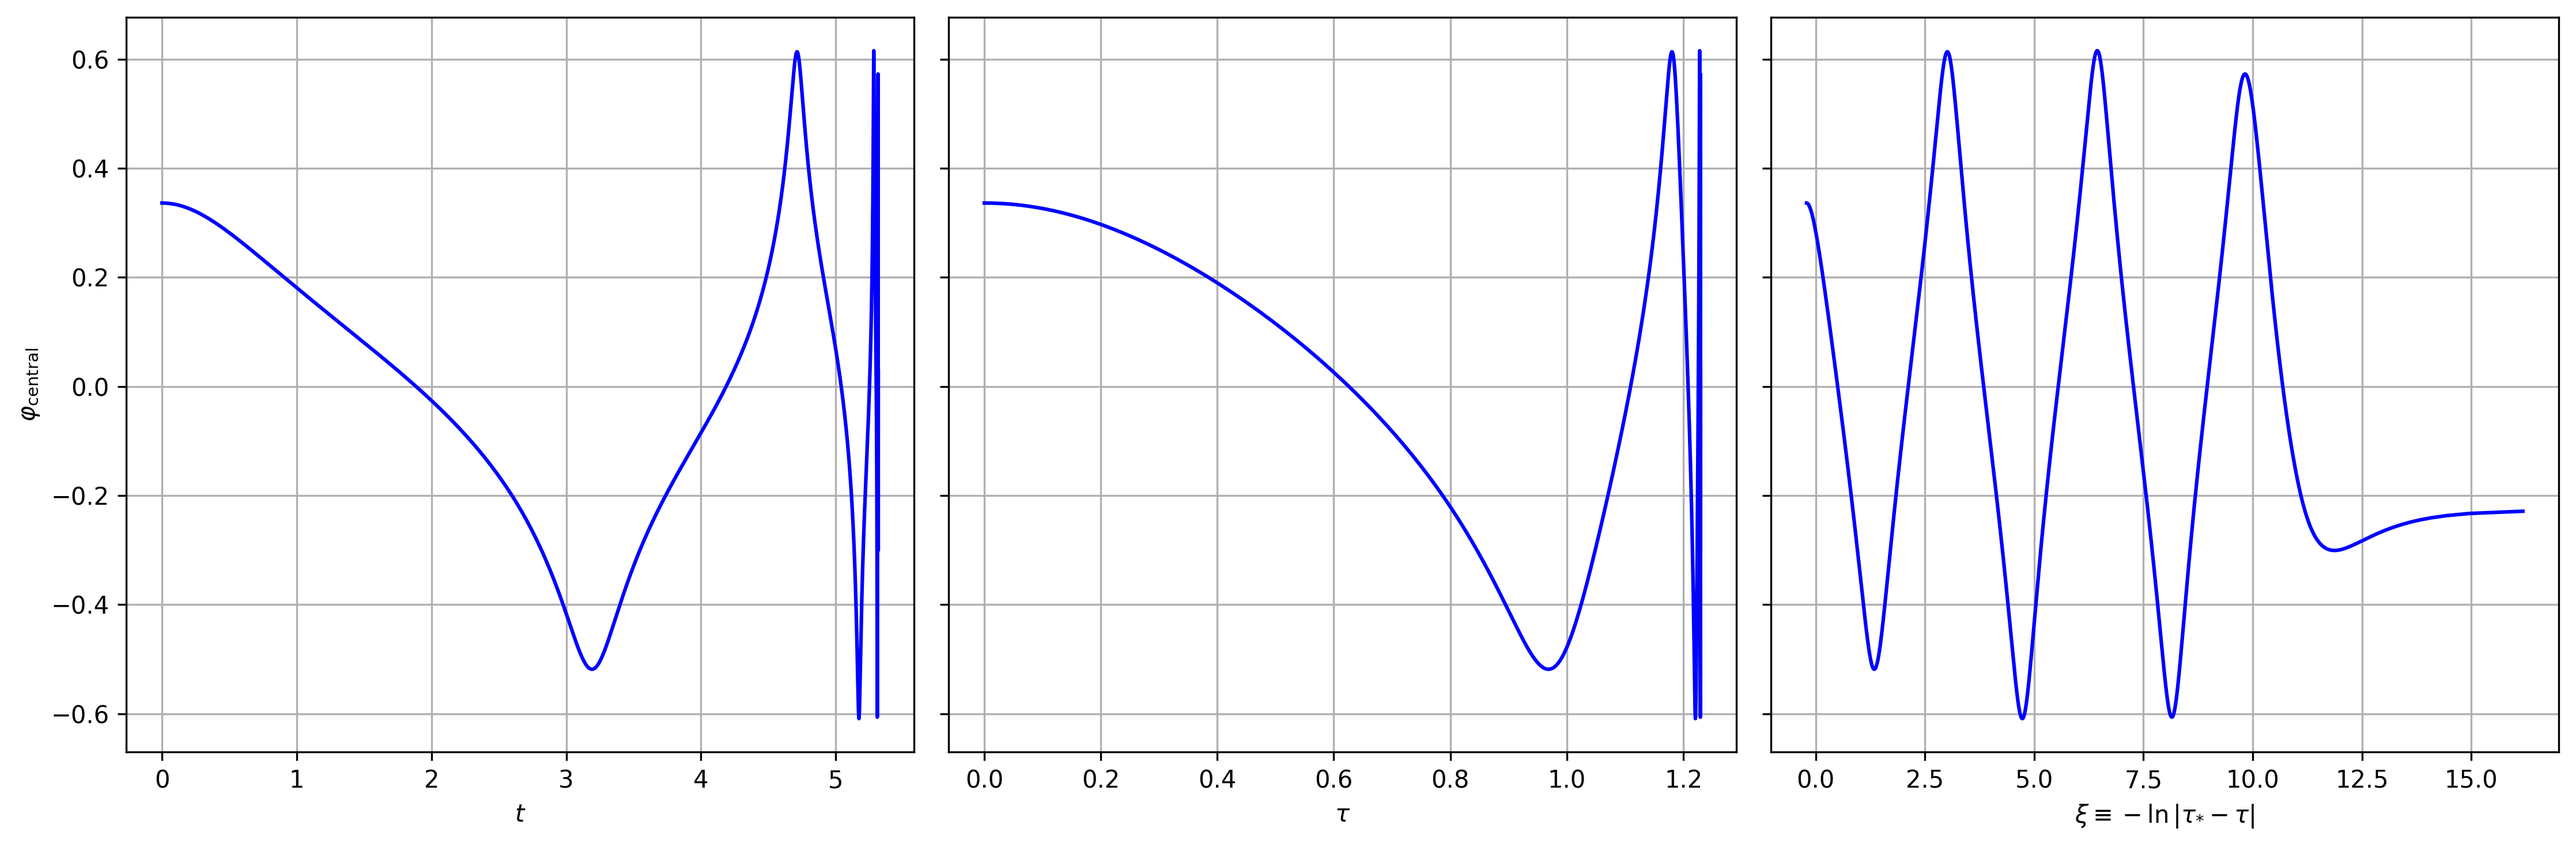
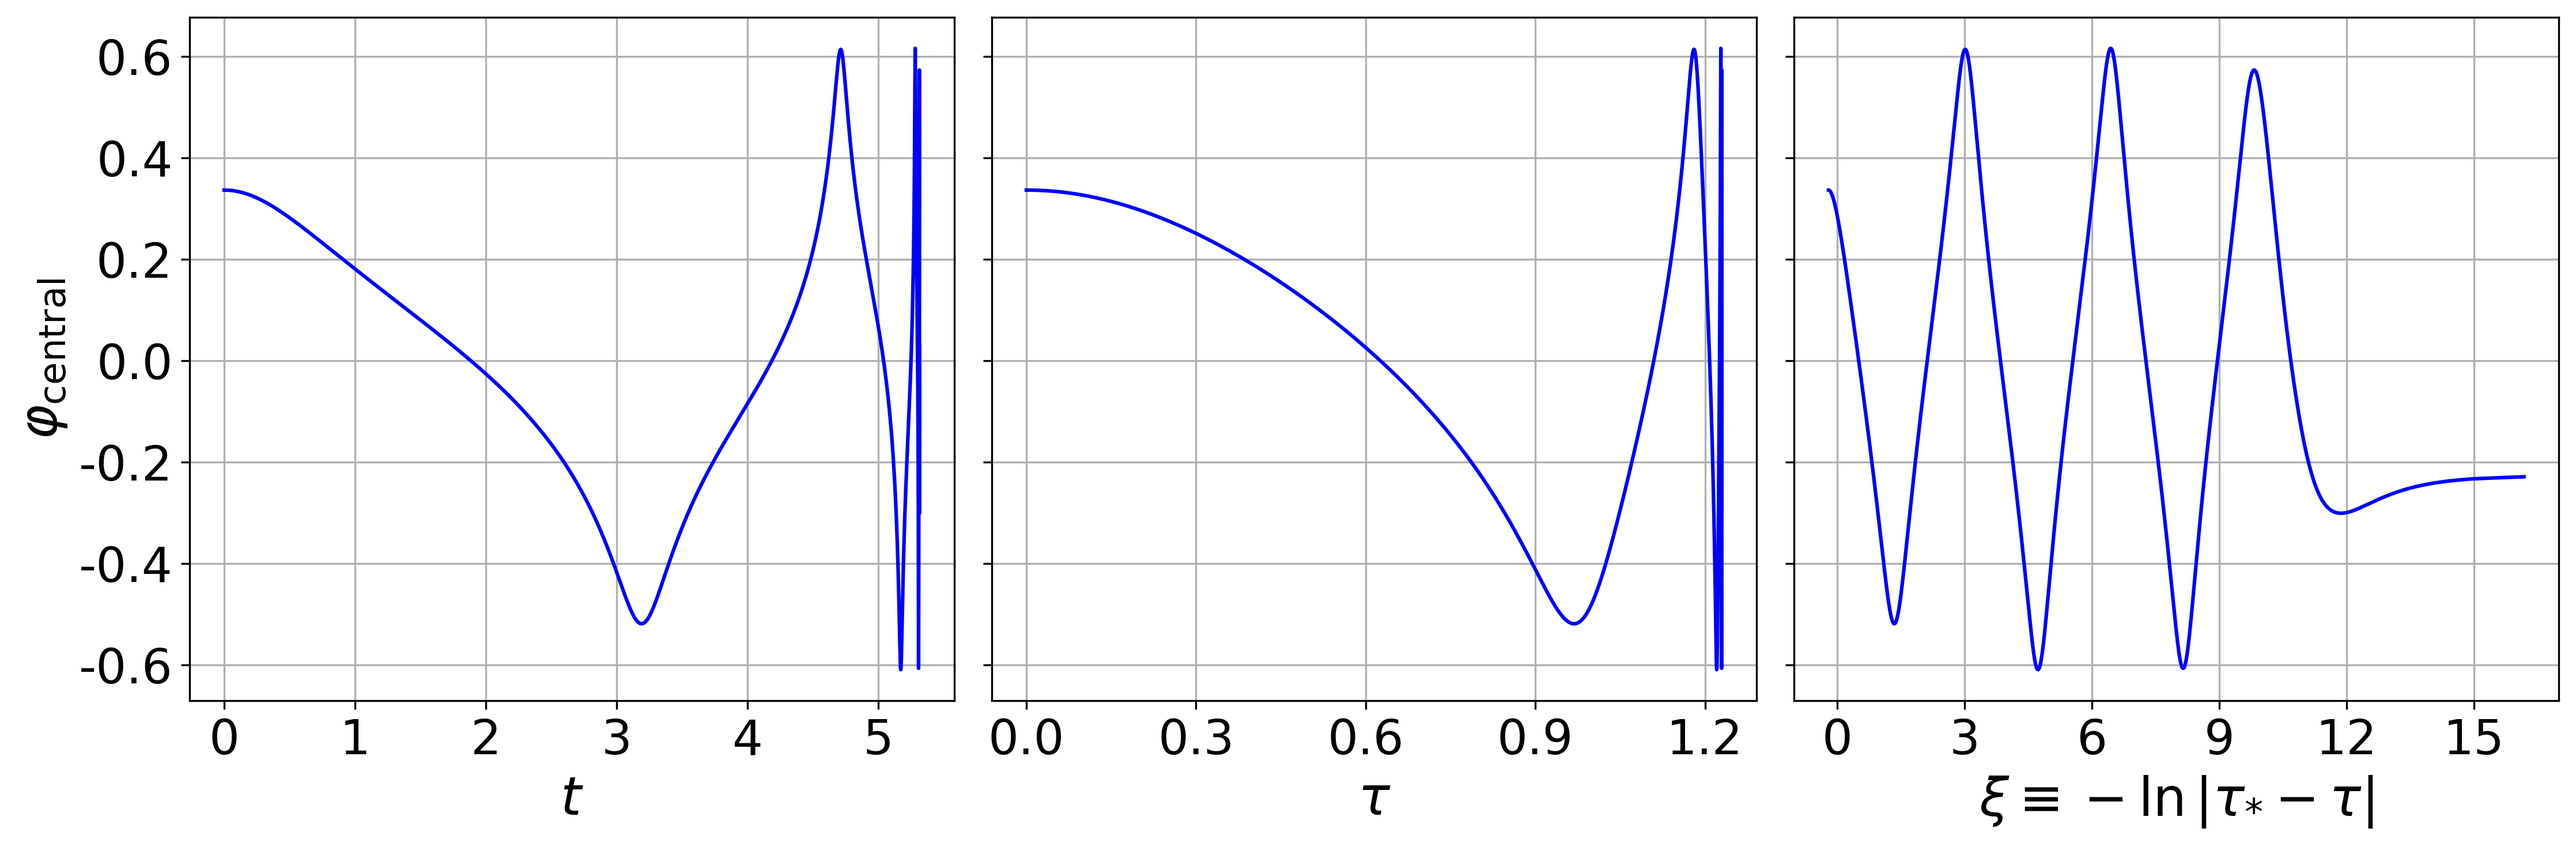
generate_plot.py & animations/central_scalar_field.png: fixed plot labels

diff --git a/generate_plot.py b/generate_plot.py
@@ -1,4 +1,5 @@
 import numpy as np
+import matplotlib
 import matplotlib.pyplot as plt
 from matplotlib.patches import ConnectionPatch
 from matplotlib.patches import Rectangle
@@ -108,21 +109,32 @@ for i in range(N):
 # Begin plotting
 fig,ax = plt.subplots(ncols=3,figsize=(15,5),dpi=300,sharey=True)
 
+label_fontsize = 22
+ticks_fontsize = 20
+
 for i in range(3):
     ax[i].grid()
 
 # Plot 1: Central scalar field as a function of coordinate time
-ax[0].set_ylabel(r"$\varphi_{\rm central}$")
-ax[0].set_xlabel(r"$t$")
+ax[0].set_ylabel(r"$\varphi_{\rm central}$",fontsize=label_fontsize)
+ax[0].set_xlabel(r"$t$",fontsize=label_fontsize)
 ax[0].plot(t_w,sf_w,'blue')
+ax[0].set_xticks([0,1,2,3,4,5])
+ax[0].set_xticklabels(["0","1","2","3","4","5"],fontsize=ticks_fontsize)
+ax[0].set_yticks([-0.6,-0.4,-0.2,0,0.2,0.4,0.6])
+ax[0].set_yticklabels(["-0.6","-0.4","-0.2","0.0","0.2","0.4","0.6"],fontsize=ticks_fontsize)
 
 # Plot 2: Central scalar field as a function of proper time
-ax[1].set_xlabel(r"$\tau$")
+ax[1].set_xlabel(r"$\tau$",fontsize=label_fontsize)
 ax[1].plot(tauw,sf_w,'blue')
+ax[1].set_xticks([0,0.3,0.6,0.9,1.2])
+ax[1].set_xticklabels(["0.0","0.3","0.6","0.9","1.2"],fontsize=ticks_fontsize)
 
 # Plot 3: Central scalar field as a function of proper time
-ax[2].set_xlabel(r"$\xi \equiv - \ln\left|\tau_{*}-\tau\right|$")
+ax[2].set_xlabel(r"$\xi \equiv - \ln\left|\tau_{*}-\tau\right|$",fontsize=label_fontsize)
 ax[2].plot(xiw,sfxiw,'blue')
+ax[2].set_xticks([0,3,6,9,12,15])
+ax[2].set_xticklabels(["0","3","6","9","12","15"],fontsize=ticks_fontsize)
 
 outfile = "central_scalar_field.png"
 plt.tight_layout()
